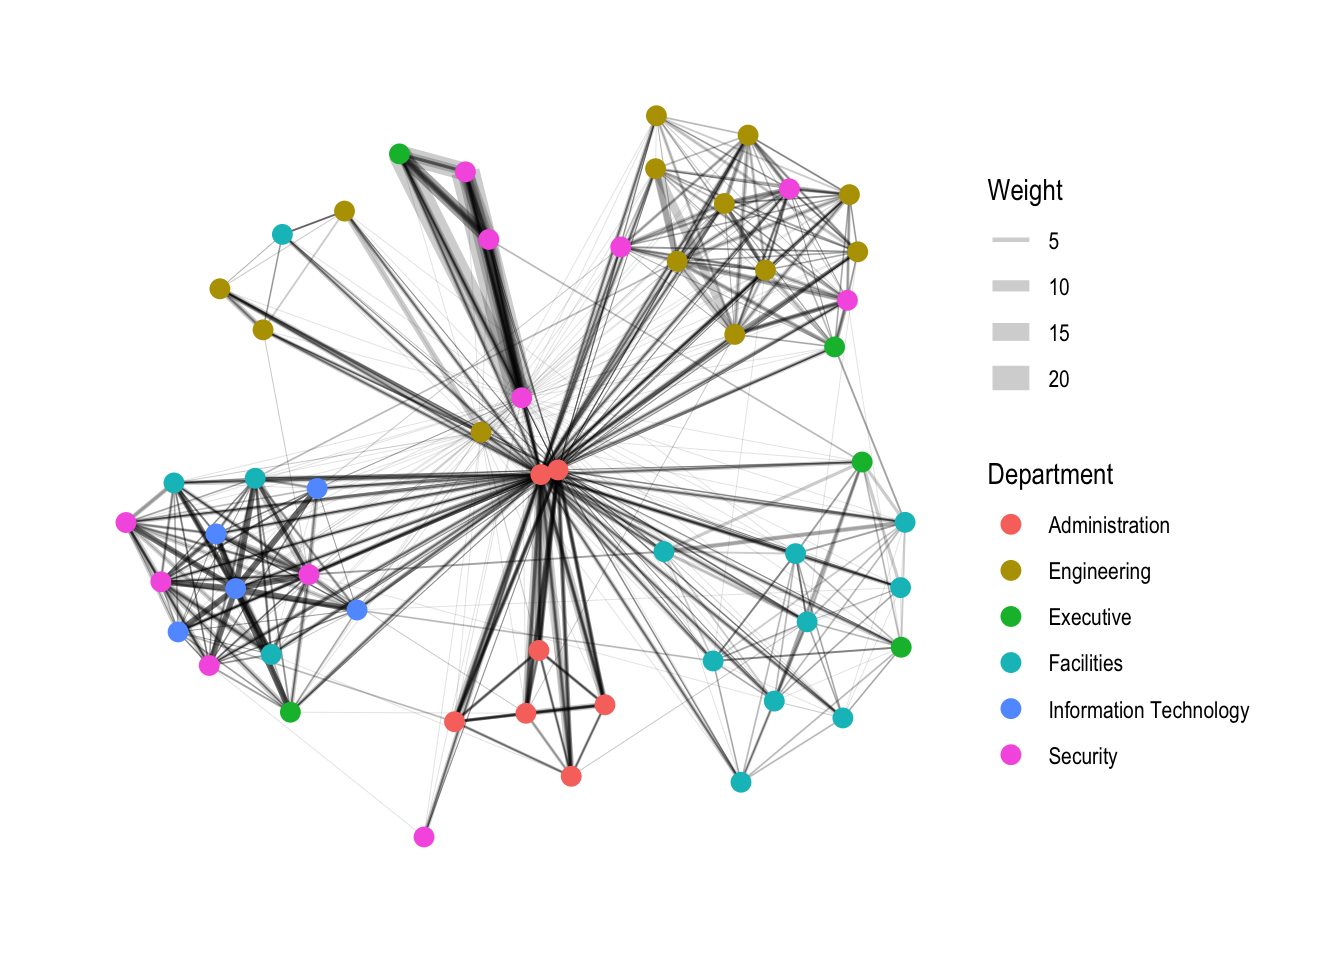
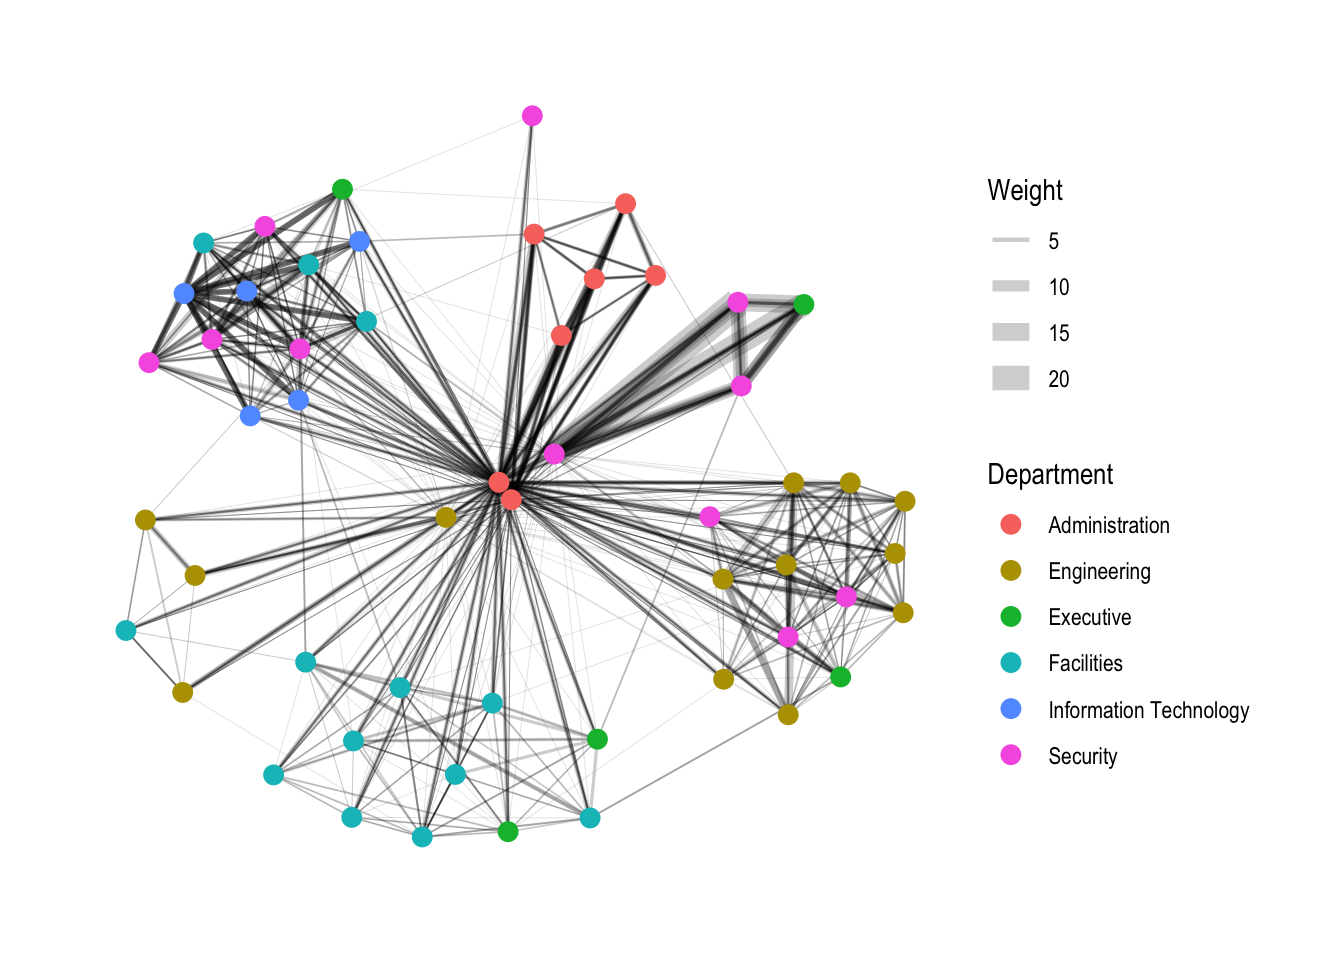
Added In-Class Ex 05

Changed region(s): [[0.0625, 0.0938, 0.6875, 0.875]]

diff --git a/_site/in_class_ex/in_class_ex_05/in_class_ex_05.html b/_site/in_class_ex/in_class_ex_05/in_class_ex_05.html
@@ -9,7 +9,7 @@
 <meta name="author" content="Yang Jun">
 <meta name="dcterms.date" content="2023-05-13">
 
-<title>ISSS608-VAA - In-Class Exercise 5</title>
+<title>ISSS608-VAA - In-Class Exercise 5: Visualising Graph Data</title>
 <style>
 code{white-space: pre-wrap;}
 span.smallcaps{font-variant: small-caps;}
@@ -141,6 +141,10 @@ pre > code.sourceCode > span > a:first-child::before { text-decoration: underlin
     <a class="dropdown-item" href="../../hands_on_ex/hands_on_ex_04/hands_on_ex_04.html" rel="" target="">
  <span class="dropdown-text">Exercise 4: Visualising Statistics &amp; Uncertainty</span></a>
   </li>  
+        <li>
+    <a class="dropdown-item" href="../../hands_on_ex/hands_on_ex_06/hands_on_ex_06.html" rel="" target="">
+ <span class="dropdown-text">Exercise 6: Multivariate Analysis</span></a>
+  </li>  
     </ul>
   </li>
   <li class="nav-item dropdown ">
@@ -159,6 +163,21 @@ pre > code.sourceCode > span > a:first-child::before { text-decoration: underlin
         <li>
     <a class="dropdown-item" href="../../in_class_ex/in_class_ex_04/in_class_ex_04.html" rel="" target="">
  <span class="dropdown-text">Exercise 4: Visualising Normal Distribution</span></a>
+  </li>  
+        <li>
+    <a class="dropdown-item" href="../../in_class_ex/in_class_ex_05/in_class_ex_05.html" rel="" target="">
+ <span class="dropdown-text">Exercise 5: Visualising Graph Data</span></a>
+  </li>  
+    </ul>
+  </li>
+  <li class="nav-item dropdown ">
+    <a class="nav-link dropdown-toggle" href="#" id="nav-menu-take-home-exercises" role="button" data-bs-toggle="dropdown" aria-expanded="false" rel="" target="">
+ <span class="menu-text">Take-Home Exercises</span>
+    </a>
+    <ul class="dropdown-menu" aria-labelledby="nav-menu-take-home-exercises">    
+        <li>
+    <a class="dropdown-item" href="../../take_home_ex/take_home_ex_01/take_home_ex_01.html" rel="" target="">
+ <span class="dropdown-text">Exercise 1: City of Engagement</span></a>
   </li>  
     </ul>
   </li>
@@ -202,7 +221,7 @@ pre > code.sourceCode > span > a:first-child::before { text-decoration: underlin
 
 <header id="title-block-header" class="quarto-title-block default">
 <div class="quarto-title">
-<h1 class="title">In-Class Exercise 5</h1>
+<h1 class="title">In-Class Exercise 5: Visualising Graph Data</h1>
 </div>
 
 
@@ -226,7 +245,7 @@ pre > code.sourceCode > span > a:first-child::before { text-decoration: underlin
     <div>
     <div class="quarto-title-meta-heading">Modified</div>
     <div class="quarto-title-meta-contents">
-      <p class="date-modified">May 14, 2023</p>
+      <p class="date-modified">May 20, 2023</p>
     </div>
   </div>
     
@@ -325,8 +344,8 @@ pre > code.sourceCode > span > a:first-child::before { text-decoration: underlin
 <div class="sourceCode cell-code" id="cb9"><pre class="sourceCode r code-with-copy"><code class="sourceCode r"><span id="cb9-1"><a href="#cb9-1" aria-hidden="true" tabindex="-1"></a><span class="fu">visNetwork</span>(GAStech_nodes,</span>
 <span id="cb9-2"><a href="#cb9-2" aria-hidden="true" tabindex="-1"></a>           GAStech_edges_aggregated)</span></code><button title="Copy to Clipboard" class="code-copy-button"><i class="bi"></i></button></pre></div>
 <div class="cell-output-display">
-<div class="visNetwork html-widget html-fill-item-overflow-hidden html-fill-item" id="htmlwidget-500053f3036271d36b0c" style="width:100%;height:464px;"></div>
-<script type="application/json" data-for="htmlwidget-500053f3036271d36b0c">{"x":{"nodes":{"id":[1,2,3,4,5,6,7,44,45,46,8,9,10,11,12,13,14,15,16,21,26,17,18,19,20,39,40,41,42,43,27,28,29,47,48,49,50,22,51,52,53,54,23,24,25,30,31,32,33,34,35,36,37,38],"label":["Mat.Bramar","Anda.Ribera","Rachel.Pantanal","Linda.Lagos","Ruscella.Mies.Haber","Carla.Forluniau","Cornelia.Lais","Kanon.Herrero","Varja.Lagos","Stenig.Fusil","Marin.Onda","Axel.Calzas","Brand.Tempestad","Elsa.Orilla","Isande.Borrasca","Kare.Orilla","Felix.Balas","Lars.Azada","Lidelse.Dedos","Willem.Vasco-Pais","Bertrand.Ovan","Adra.Nubarron","Birgitta.Frente","Gustav.Cazar","Vira.Frente","Linnea.Bergen","Lucas.Alcazar","Isak.Baza","Nils.Calixto","Sven.Flecha","Emile.Arpa","Varro.Awelon","Dante.Coginian","Edvard.Vann","Hennie.Osvaldo","Isia.Vann","Minke.Mies","Sten.Sanjorge.Jr","Felix.Resumir","Hideki.Cocinaro","Inga.Ferro","Loreto.Bodrogi","Ingrid.Barranco","Ada.Campo-Corrente","Orhan.Strum","Adan.Morlun","Albina.Hafon","Benito.Hawelon","Cecilia.Morluniau","Claudio.Hawelon","Dylan.Scozzese","Henk.Mies","Irene.Nant","Valeria.Morlun"],"Department":["Administration","Administration","Administration","Administration","Administration","Administration","Administration","Security","Security","Security","Engineering","Engineering","Engineering","Engineering","Engineering","Engineering","Engineering","Engineering","Engineering","Executive","Facilities","Engineering","Engineering","Engineering","Engineering","Information Technology","Information Technology","Information Technology","Information Technology","Information Technology","Facilities","Facilities","Facilities","Security","Security","Security","Security","Executive","Security","Security","Security","Security","Executive","Executive","Executive","Facilities","Facilities","Facilities","Facilities","Facilities","Facilities","Facilities","Facilities","Facilities"],"Title":["Assistant to CEO","Assistant to CFO","Assistant to CIO","Assistant to COO","Assistant to Engineering Group Manager","Assistant to IT Group Manager","Assistant to Security Group Manager","Badging Office","Badging Office","Building Control","Drill Site Manager","Drill Technician","Drill Technician","Drill Technician","Drill Technician","Drill Technician","Engineer","Engineer","Engineering Group Manager","Environmental Safety Advisor","Facilities Group Manager","Geologist","Geologist","Hydraulic Technician","Hydraulic Technician","IT Group Manager","IT Helpdesk","IT Technician","IT Technician","IT Technician","Janitor","Janitor","Lead Janitor","Perimeter Control","Perimeter Control","Perimeter Control","Perimeter Control","President/CEO","Security Group Manager","Site Control","Site Control","Site Control","SVP/CFO","SVP/CIO","SVP/COO","Truck Driver","Truck Driver","Truck Driver","Truck Driver","Truck Driver","Truck Driver","Truck Driver","Truck Driver","Truck Driver"]},"edges":{"from":[1,1,1,1,1,1,1,1,1,1,1,1,1,1,1,1,1,1,1,1,1,1,1,1,1,1,1,1,1,1,1,1,1,1,1,1,1,1,1,1,1,1,1,1,1,1,1,1,1,1,1,1,1,2,2,2,2,2,2,2,2,2,3,3,3,3,3,3,3,4,4,4,4,4,4,5,5,5,5,5,5,5,5,5,5,5,5,5,5,5,5,5,5,5,5,5,5,5,5,5,5,5,5,5,5,5,5,5,5,5,5,5,5,5,5,5,5,5,5,5,5,5,5,5,5,5,5,5,6,6,6,6,6,6,6,7,7,7,7,7,7,8,8,8,8,8,8,8,8,8,8,8,8,8,9,9,9,9,9,9,9,9,9,9,9,9,9,10,10,10,10,10,10,10,10,10,10,10,10,11,11,11,11,11,11,11,11,11,11,11,11,11,12,12,12,12,12,12,12,12,12,12,12,12,12,13,13,13,13,13,13,13,13,13,13,13,13,14,14,14,14,14,14,14,14,14,14,14,14,15,15,15,15,15,15,15,15,15,15,15,15,15,16,16,16,16,16,16,16,16,16,16,16,16,17,17,17,17,17,17,17,17,17,17,17,17,17,17,17,17,17,17,17,17,17,17,17,17,17,17,17,17,17,17,17,17,17,17,17,17,17,17,17,17,17,17,17,17,17,17,17,17,17,17,17,17,17,18,18,18,18,18,18,18,18,18,18,18,19,19,19,19,19,19,19,19,19,19,19,19,20,20,20,20,20,20,20,20,20,20,20,20,20,21,21,21,21,21,22,22,22,22,22,23,23,23,23,23,23,23,23,23,23,23,23,23,23,23,23,23,23,23,23,23,23,23,23,23,23,23,23,23,23,23,23,23,23,23,23,23,23,23,23,23,23,23,23,23,23,23,23,23,23,23,23,23,24,24,24,24,24,25,25,25,25,25,26,26,26,26,26,26,26,26,26,26,26,26,27,27,27,27,27,27,27,27,27,27,27,27,27,28,28,28,28,28,28,28,28,28,28,28,28,28,29,29,29,29,29,29,29,29,29,29,29,29,29,29,29,29,30,30,30,30,30,30,30,30,30,30,30,30,31,31,31,31,31,31,31,31,31,31,31,31,32,32,32,32,32,32,32,32,32,32,32,32,32,33,33,33,33,33,33,33,33,33,33,33,33,33,34,34,34,34,34,34,34,34,34,34,34,35,35,35,35,35,35,35,35,35,35,35,35,36,36,36,36,36,36,36,36,36,36,36,36,36,36,36,37,37,37,37,37,37,37,37,37,37,37,37,38,38,38,38,38,38,38,38,38,39,40,40,40,40,40,40,40,40,40,40,40,40,40,40,40,40,40,40,40,40,40,40,40,40,40,40,40,40,40,40,40,40,40,40,40,40,40,40,40,40,40,40,40,40,40,40,40,40,40,40,40,40,40,41,41,41,42,42,42,42,43,43,43,44,44,44,44,44,44,44,44,44,44,44,45,45,45,45,45,45,45,45,45,45,46,46,46,46,46,46,46,46,46,46,47,47,47,47,47,47,47,47,47,47,47,47,47,47,47,47,47,47,47,47,47,47,47,47,47,47,47,47,47,47,47,47,47,47,47,47,47,47,47,47,47,47,47,47,47,47,47,47,47,47,47,47,47,48,48,48,48,48,48,48,48,48,48,48,48,48,48,48,48,48,48,48,48,48,48,48,48,48,48,48,48,48,48,48,48,48,48,48,48,48,48,48,48,48,48,48,48,48,48,48,48,48,48,48,48,48,49,49,49,49,49,49,49,50,50,50,50,50,50,51,51,51,51,51,51,51,51,51,51,51,52,52,52,52,52,52,52,52,52,52,52,52,53,53,53,53,53,53,53,53,53,53,53,53,54,54,54,54,54,54,54,54,54,54,54],"to":[2,3,4,5,6,7,8,9,10,11,12,13,14,15,16,17,18,19,20,21,22,23,24,25,26,27,28,29,30,31,32,33,34,35,36,37,38,39,40,41,42,43,44,45,46,47,48,49,50,51,52,53,54,1,3,4,5,6,7,15,36,38,1,2,4,5,6,7,48,1,2,3,5,6,7,1,2,3,4,6,7,8,9,10,11,12,13,14,15,16,17,18,19,20,21,22,23,24,25,26,27,28,29,30,31,32,33,34,35,36,37,38,39,40,41,42,43,44,45,46,47,48,49,50,51,52,53,54,1,2,3,4,5,7,28,1,2,3,4,5,6,9,10,11,12,13,14,15,16,17,18,19,20,27,8,10,11,12,13,14,15,16,17,18,19,20,45,8,9,11,12,13,14,15,16,17,18,19,20,8,9,10,12,13,14,15,16,17,18,19,20,32,8,9,10,11,13,14,15,16,17,18,19,20,52,8,9,10,11,12,14,15,16,17,18,19,20,8,9,10,11,12,13,15,16,17,18,19,20,2,8,9,10,11,12,13,14,16,17,18,19,20,8,9,10,11,12,13,14,15,17,18,19,20,1,2,3,4,5,6,7,8,9,10,11,12,13,14,15,16,18,19,20,21,22,23,24,25,26,27,28,29,30,31,32,33,34,35,36,37,38,39,40,41,42,43,44,45,46,47,48,49,50,51,52,53,54,8,9,10,11,12,13,14,15,17,19,20,8,9,10,11,12,13,14,15,16,17,18,20,8,9,10,11,12,13,14,15,16,17,18,19,50,22,23,24,25,53,21,23,24,25,36,1,2,3,4,5,6,7,8,9,10,11,12,13,14,15,16,17,18,19,20,21,22,24,25,26,27,28,29,30,31,32,33,34,35,36,37,38,39,40,41,42,43,44,45,46,47,48,49,50,51,52,53,54,5,21,22,23,25,21,22,23,24,46,27,28,29,30,31,32,33,34,35,36,37,38,8,28,29,30,31,32,33,34,35,36,37,38,40,6,26,27,29,30,31,32,33,34,35,36,37,38,1,26,27,28,30,31,32,33,34,35,36,37,38,40,51,52,26,27,28,29,31,32,33,34,35,36,37,38,3,27,28,29,30,32,33,34,35,36,37,38,11,26,27,28,29,30,31,33,34,35,36,37,38,23,26,27,28,29,30,31,32,34,35,36,37,38,27,28,29,30,31,32,33,35,36,37,38,26,27,28,29,30,31,32,33,34,36,37,38,2,22,26,27,28,29,30,31,32,33,34,35,37,38,53,26,27,28,29,30,31,32,33,34,35,36,38,27,28,29,30,31,32,34,35,36,34,1,2,3,4,5,6,7,8,9,10,11,12,13,14,15,16,17,18,19,20,21,22,23,24,25,26,27,28,29,30,31,32,33,34,35,36,37,38,39,41,42,43,44,45,46,47,48,49,50,51,52,53,54,40,42,43,40,41,43,44,40,41,42,42,45,46,47,48,49,50,51,52,53,54,44,46,47,48,49,50,51,52,53,54,44,45,47,48,49,50,51,52,53,54,1,2,3,4,5,6,7,8,9,10,11,12,13,14,15,16,17,18,19,20,21,22,23,24,25,26,27,28,29,30,31,32,33,34,35,36,37,38,39,40,41,42,43,44,45,46,48,49,50,51,52,53,54,1,2,3,4,5,6,7,8,9,10,11,12,13,14,15,16,17,18,19,20,21,22,23,24,25,26,27,28,29,30,31,32,33,34,35,36,37,38,39,40,41,42,43,44,45,46,47,49,50,51,52,53,54,3,45,46,47,48,52,54,5,20,48,49,53,54,29,44,45,46,47,48,49,50,52,53,54,7,12,29,44,45,46,47,48,49,50,51,53,5,21,36,44,45,47,48,49,50,51,52,54,5,44,45,46,47,48,49,50,51,52,53],"weight":[21,21,21,21,21,21,15,15,15,15,15,15,15,15,15,15,15,15,15,15,15,15,15,15,15,15,15,16,15,15,15,15,15,15,15,15,15,15,15,15,15,15,15,15,15,15,15,15,15,15,15,15,15,6,6,6,6,6,9,2,2,2,8,8,8,8,8,8,2,12,12,12,12,12,12,20,20,20,20,20,20,10,10,10,10,10,10,10,10,10,10,10,10,10,10,10,10,11,10,10,10,10,10,10,10,10,10,10,10,10,10,10,10,10,10,10,10,10,10,10,10,11,11,11,10,10,11,11,11,11,11,11,11,11,3,12,15,12,12,12,12,3,4,3,3,4,4,3,3,4,3,4,3,3,4,4,9,4,7,7,11,5,4,5,6,8,3,8,8,7,9,9,6,9,10,10,7,5,7,11,10,11,6,11,7,11,9,10,7,10,8,3,9,10,8,8,11,6,7,5,3,6,5,6,2,9,5,10,7,7,4,3,4,7,2,3,3,6,5,7,4,6,6,7,5,7,6,3,4,3,6,13,8,8,5,6,6,11,9,6,2,7,6,8,7,5,5,7,6,7,7,5,4,6,2,2,2,2,2,2,2,6,4,7,7,6,6,6,6,5,5,4,4,2,2,2,2,2,2,2,2,2,2,2,2,2,2,2,2,2,2,2,2,2,2,2,2,2,2,2,2,2,2,2,2,2,2,3,3,4,5,3,3,2,5,2,3,2,4,8,5,9,6,5,4,10,7,4,4,5,5,10,5,7,4,5,4,4,4,3,2,4,3,4,2,4,7,2,7,5,10,4,2,4,4,4,4,4,4,4,4,4,4,4,4,6,4,4,4,4,4,4,4,6,10,17,9,4,4,4,4,4,4,4,5,4,4,4,4,4,4,4,4,4,4,4,4,4,4,4,4,4,4,4,4,4,2,5,9,7,3,8,2,3,4,2,26,25,25,25,25,25,24,25,25,26,25,26,3,4,3,6,4,3,3,6,5,3,4,5,3,3,2,3,6,5,8,6,6,7,4,6,6,6,2,2,6,5,7,5,6,5,7,6,6,5,5,3,2,3,3,5,7,9,12,9,9,6,13,12,9,11,2,5,4,6,6,9,7,6,12,7,7,8,4,2,8,6,9,7,10,7,9,6,10,5,8,2,4,2,3,5,7,8,4,7,5,7,6,4,5,6,4,7,8,5,9,6,6,10,6,3,11,7,9,11,15,7,11,11,9,13,13,2,2,3,12,11,12,16,15,19,12,11,14,11,13,3,3,4,5,6,7,7,6,9,10,7,5,3,2,5,5,2,2,2,4,4,3,2,2,2,2,2,2,2,2,2,2,2,2,2,2,2,2,2,2,2,2,2,2,2,2,2,2,2,4,2,3,2,2,2,2,2,2,2,2,2,2,40,22,30,2,2,2,2,2,2,2,2,2,2,2,28,19,24,25,19,28,2,15,16,24,3,4,2,5,6,2,5,5,2,6,3,6,4,2,6,5,5,4,7,5,6,6,3,4,9,5,6,8,7,4,6,2,2,2,2,2,2,2,2,2,2,2,2,2,2,2,2,2,2,2,2,2,2,2,2,2,2,2,2,2,2,2,2,2,2,2,3,2,2,2,2,2,2,2,5,4,3,7,5,6,6,5,5,5,2,2,4,2,4,2,2,2,2,2,2,2,2,3,2,2,2,2,2,2,2,2,2,2,2,2,2,2,2,2,2,2,2,2,2,2,2,2,2,2,2,2,2,4,4,5,3,8,6,5,5,5,6,2,3,2,3,3,4,2,2,4,2,2,5,2,3,3,3,3,4,4,2,3,3,3,3,2,2,4,2,4,4,3,4,5,3,2,4,3,3,4,3,3,2,5,4,8,2,2,5,2,3,4,3,2,5,4,4,2,3,4]},"nodesToDataframe":true,"edgesToDataframe":true,"options":{"width":"100%","height":"100%","nodes":{"shape":"dot"},"manipulation":{"enabled":false}},"groups":null,"width":null,"height":null,"idselection":{"enabled":false},"byselection":{"enabled":false},"main":null,"submain":null,"footer":null,"background":"rgba(0, 0, 0, 0)"},"evals":[],"jsHooks":[]}</script>
+<div class="visNetwork html-widget html-fill-item-overflow-hidden html-fill-item" id="htmlwidget-f76dc66dd4dc958263a6" style="width:100%;height:464px;"></div>
+<script type="application/json" data-for="htmlwidget-f76dc66dd4dc958263a6">{"x":{"nodes":{"id":[1,2,3,4,5,6,7,44,45,46,8,9,10,11,12,13,14,15,16,21,26,17,18,19,20,39,40,41,42,43,27,28,29,47,48,49,50,22,51,52,53,54,23,24,25,30,31,32,33,34,35,36,37,38],"label":["Mat.Bramar","Anda.Ribera","Rachel.Pantanal","Linda.Lagos","Ruscella.Mies.Haber","Carla.Forluniau","Cornelia.Lais","Kanon.Herrero","Varja.Lagos","Stenig.Fusil","Marin.Onda","Axel.Calzas","Brand.Tempestad","Elsa.Orilla","Isande.Borrasca","Kare.Orilla","Felix.Balas","Lars.Azada","Lidelse.Dedos","Willem.Vasco-Pais","Bertrand.Ovan","Adra.Nubarron","Birgitta.Frente","Gustav.Cazar","Vira.Frente","Linnea.Bergen","Lucas.Alcazar","Isak.Baza","Nils.Calixto","Sven.Flecha","Emile.Arpa","Varro.Awelon","Dante.Coginian","Edvard.Vann","Hennie.Osvaldo","Isia.Vann","Minke.Mies","Sten.Sanjorge.Jr","Felix.Resumir","Hideki.Cocinaro","Inga.Ferro","Loreto.Bodrogi","Ingrid.Barranco","Ada.Campo-Corrente","Orhan.Strum","Adan.Morlun","Albina.Hafon","Benito.Hawelon","Cecilia.Morluniau","Claudio.Hawelon","Dylan.Scozzese","Henk.Mies","Irene.Nant","Valeria.Morlun"],"Department":["Administration","Administration","Administration","Administration","Administration","Administration","Administration","Security","Security","Security","Engineering","Engineering","Engineering","Engineering","Engineering","Engineering","Engineering","Engineering","Engineering","Executive","Facilities","Engineering","Engineering","Engineering","Engineering","Information Technology","Information Technology","Information Technology","Information Technology","Information Technology","Facilities","Facilities","Facilities","Security","Security","Security","Security","Executive","Security","Security","Security","Security","Executive","Executive","Executive","Facilities","Facilities","Facilities","Facilities","Facilities","Facilities","Facilities","Facilities","Facilities"],"Title":["Assistant to CEO","Assistant to CFO","Assistant to CIO","Assistant to COO","Assistant to Engineering Group Manager","Assistant to IT Group Manager","Assistant to Security Group Manager","Badging Office","Badging Office","Building Control","Drill Site Manager","Drill Technician","Drill Technician","Drill Technician","Drill Technician","Drill Technician","Engineer","Engineer","Engineering Group Manager","Environmental Safety Advisor","Facilities Group Manager","Geologist","Geologist","Hydraulic Technician","Hydraulic Technician","IT Group Manager","IT Helpdesk","IT Technician","IT Technician","IT Technician","Janitor","Janitor","Lead Janitor","Perimeter Control","Perimeter Control","Perimeter Control","Perimeter Control","President/CEO","Security Group Manager","Site Control","Site Control","Site Control","SVP/CFO","SVP/CIO","SVP/COO","Truck Driver","Truck Driver","Truck Driver","Truck Driver","Truck Driver","Truck Driver","Truck Driver","Truck Driver","Truck Driver"]},"edges":{"from":[1,1,1,1,1,1,1,1,1,1,1,1,1,1,1,1,1,1,1,1,1,1,1,1,1,1,1,1,1,1,1,1,1,1,1,1,1,1,1,1,1,1,1,1,1,1,1,1,1,1,1,1,1,2,2,2,2,2,2,2,2,2,3,3,3,3,3,3,3,4,4,4,4,4,4,5,5,5,5,5,5,5,5,5,5,5,5,5,5,5,5,5,5,5,5,5,5,5,5,5,5,5,5,5,5,5,5,5,5,5,5,5,5,5,5,5,5,5,5,5,5,5,5,5,5,5,5,5,6,6,6,6,6,6,6,7,7,7,7,7,7,8,8,8,8,8,8,8,8,8,8,8,8,8,9,9,9,9,9,9,9,9,9,9,9,9,9,10,10,10,10,10,10,10,10,10,10,10,10,11,11,11,11,11,11,11,11,11,11,11,11,11,12,12,12,12,12,12,12,12,12,12,12,12,12,13,13,13,13,13,13,13,13,13,13,13,13,14,14,14,14,14,14,14,14,14,14,14,14,15,15,15,15,15,15,15,15,15,15,15,15,15,16,16,16,16,16,16,16,16,16,16,16,16,17,17,17,17,17,17,17,17,17,17,17,17,17,17,17,17,17,17,17,17,17,17,17,17,17,17,17,17,17,17,17,17,17,17,17,17,17,17,17,17,17,17,17,17,17,17,17,17,17,17,17,17,17,18,18,18,18,18,18,18,18,18,18,18,19,19,19,19,19,19,19,19,19,19,19,19,20,20,20,20,20,20,20,20,20,20,20,20,20,21,21,21,21,21,22,22,22,22,22,23,23,23,23,23,23,23,23,23,23,23,23,23,23,23,23,23,23,23,23,23,23,23,23,23,23,23,23,23,23,23,23,23,23,23,23,23,23,23,23,23,23,23,23,23,23,23,23,23,23,23,23,23,24,24,24,24,24,25,25,25,25,25,26,26,26,26,26,26,26,26,26,26,26,26,27,27,27,27,27,27,27,27,27,27,27,27,27,28,28,28,28,28,28,28,28,28,28,28,28,28,29,29,29,29,29,29,29,29,29,29,29,29,29,29,29,29,30,30,30,30,30,30,30,30,30,30,30,30,31,31,31,31,31,31,31,31,31,31,31,31,32,32,32,32,32,32,32,32,32,32,32,32,32,33,33,33,33,33,33,33,33,33,33,33,33,33,34,34,34,34,34,34,34,34,34,34,34,35,35,35,35,35,35,35,35,35,35,35,35,36,36,36,36,36,36,36,36,36,36,36,36,36,36,36,37,37,37,37,37,37,37,37,37,37,37,37,38,38,38,38,38,38,38,38,38,39,40,40,40,40,40,40,40,40,40,40,40,40,40,40,40,40,40,40,40,40,40,40,40,40,40,40,40,40,40,40,40,40,40,40,40,40,40,40,40,40,40,40,40,40,40,40,40,40,40,40,40,40,40,41,41,41,42,42,42,42,43,43,43,44,44,44,44,44,44,44,44,44,44,44,45,45,45,45,45,45,45,45,45,45,46,46,46,46,46,46,46,46,46,46,47,47,47,47,47,47,47,47,47,47,47,47,47,47,47,47,47,47,47,47,47,47,47,47,47,47,47,47,47,47,47,47,47,47,47,47,47,47,47,47,47,47,47,47,47,47,47,47,47,47,47,47,47,48,48,48,48,48,48,48,48,48,48,48,48,48,48,48,48,48,48,48,48,48,48,48,48,48,48,48,48,48,48,48,48,48,48,48,48,48,48,48,48,48,48,48,48,48,48,48,48,48,48,48,48,48,49,49,49,49,49,49,49,50,50,50,50,50,50,51,51,51,51,51,51,51,51,51,51,51,52,52,52,52,52,52,52,52,52,52,52,52,53,53,53,53,53,53,53,53,53,53,53,53,54,54,54,54,54,54,54,54,54,54,54],"to":[2,3,4,5,6,7,8,9,10,11,12,13,14,15,16,17,18,19,20,21,22,23,24,25,26,27,28,29,30,31,32,33,34,35,36,37,38,39,40,41,42,43,44,45,46,47,48,49,50,51,52,53,54,1,3,4,5,6,7,15,36,38,1,2,4,5,6,7,48,1,2,3,5,6,7,1,2,3,4,6,7,8,9,10,11,12,13,14,15,16,17,18,19,20,21,22,23,24,25,26,27,28,29,30,31,32,33,34,35,36,37,38,39,40,41,42,43,44,45,46,47,48,49,50,51,52,53,54,1,2,3,4,5,7,28,1,2,3,4,5,6,9,10,11,12,13,14,15,16,17,18,19,20,27,8,10,11,12,13,14,15,16,17,18,19,20,45,8,9,11,12,13,14,15,16,17,18,19,20,8,9,10,12,13,14,15,16,17,18,19,20,32,8,9,10,11,13,14,15,16,17,18,19,20,52,8,9,10,11,12,14,15,16,17,18,19,20,8,9,10,11,12,13,15,16,17,18,19,20,2,8,9,10,11,12,13,14,16,17,18,19,20,8,9,10,11,12,13,14,15,17,18,19,20,1,2,3,4,5,6,7,8,9,10,11,12,13,14,15,16,18,19,20,21,22,23,24,25,26,27,28,29,30,31,32,33,34,35,36,37,38,39,40,41,42,43,44,45,46,47,48,49,50,51,52,53,54,8,9,10,11,12,13,14,15,17,19,20,8,9,10,11,12,13,14,15,16,17,18,20,8,9,10,11,12,13,14,15,16,17,18,19,50,22,23,24,25,53,21,23,24,25,36,1,2,3,4,5,6,7,8,9,10,11,12,13,14,15,16,17,18,19,20,21,22,24,25,26,27,28,29,30,31,32,33,34,35,36,37,38,39,40,41,42,43,44,45,46,47,48,49,50,51,52,53,54,5,21,22,23,25,21,22,23,24,46,27,28,29,30,31,32,33,34,35,36,37,38,8,28,29,30,31,32,33,34,35,36,37,38,40,6,26,27,29,30,31,32,33,34,35,36,37,38,1,26,27,28,30,31,32,33,34,35,36,37,38,40,51,52,26,27,28,29,31,32,33,34,35,36,37,38,3,27,28,29,30,32,33,34,35,36,37,38,11,26,27,28,29,30,31,33,34,35,36,37,38,23,26,27,28,29,30,31,32,34,35,36,37,38,27,28,29,30,31,32,33,35,36,37,38,26,27,28,29,30,31,32,33,34,36,37,38,2,22,26,27,28,29,30,31,32,33,34,35,37,38,53,26,27,28,29,30,31,32,33,34,35,36,38,27,28,29,30,31,32,34,35,36,34,1,2,3,4,5,6,7,8,9,10,11,12,13,14,15,16,17,18,19,20,21,22,23,24,25,26,27,28,29,30,31,32,33,34,35,36,37,38,39,41,42,43,44,45,46,47,48,49,50,51,52,53,54,40,42,43,40,41,43,44,40,41,42,42,45,46,47,48,49,50,51,52,53,54,44,46,47,48,49,50,51,52,53,54,44,45,47,48,49,50,51,52,53,54,1,2,3,4,5,6,7,8,9,10,11,12,13,14,15,16,17,18,19,20,21,22,23,24,25,26,27,28,29,30,31,32,33,34,35,36,37,38,39,40,41,42,43,44,45,46,48,49,50,51,52,53,54,1,2,3,4,5,6,7,8,9,10,11,12,13,14,15,16,17,18,19,20,21,22,23,24,25,26,27,28,29,30,31,32,33,34,35,36,37,38,39,40,41,42,43,44,45,46,47,49,50,51,52,53,54,3,45,46,47,48,52,54,5,20,48,49,53,54,29,44,45,46,47,48,49,50,52,53,54,7,12,29,44,45,46,47,48,49,50,51,53,5,21,36,44,45,47,48,49,50,51,52,54,5,44,45,46,47,48,49,50,51,52,53],"weight":[21,21,21,21,21,21,15,15,15,15,15,15,15,15,15,15,15,15,15,15,15,15,15,15,15,15,15,16,15,15,15,15,15,15,15,15,15,15,15,15,15,15,15,15,15,15,15,15,15,15,15,15,15,6,6,6,6,6,9,2,2,2,8,8,8,8,8,8,2,12,12,12,12,12,12,20,20,20,20,20,20,10,10,10,10,10,10,10,10,10,10,10,10,10,10,10,10,11,10,10,10,10,10,10,10,10,10,10,10,10,10,10,10,10,10,10,10,10,10,10,10,11,11,11,10,10,11,11,11,11,11,11,11,11,3,12,15,12,12,12,12,3,4,3,3,4,4,3,3,4,3,4,3,3,4,4,9,4,7,7,11,5,4,5,6,8,3,8,8,7,9,9,6,9,10,10,7,5,7,11,10,11,6,11,7,11,9,10,7,10,8,3,9,10,8,8,11,6,7,5,3,6,5,6,2,9,5,10,7,7,4,3,4,7,2,3,3,6,5,7,4,6,6,7,5,7,6,3,4,3,6,13,8,8,5,6,6,11,9,6,2,7,6,8,7,5,5,7,6,7,7,5,4,6,2,2,2,2,2,2,2,6,4,7,7,6,6,6,6,5,5,4,4,2,2,2,2,2,2,2,2,2,2,2,2,2,2,2,2,2,2,2,2,2,2,2,2,2,2,2,2,2,2,2,2,2,2,3,3,4,5,3,3,2,5,2,3,2,4,8,5,9,6,5,4,10,7,4,4,5,5,10,5,7,4,5,4,4,4,3,2,4,3,4,2,4,7,2,7,5,10,4,2,4,4,4,4,4,4,4,4,4,4,4,4,6,4,4,4,4,4,4,4,6,10,17,9,4,4,4,4,4,4,4,5,4,4,4,4,4,4,4,4,4,4,4,4,4,4,4,4,4,4,4,4,4,2,5,9,7,3,8,2,3,4,2,26,25,25,25,25,25,24,25,25,26,25,26,3,4,3,6,4,3,3,6,5,3,4,5,3,3,2,3,6,5,8,6,6,7,4,6,6,6,2,2,6,5,7,5,6,5,7,6,6,5,5,3,2,3,3,5,7,9,12,9,9,6,13,12,9,11,2,5,4,6,6,9,7,6,12,7,7,8,4,2,8,6,9,7,10,7,9,6,10,5,8,2,4,2,3,5,7,8,4,7,5,7,6,4,5,6,4,7,8,5,9,6,6,10,6,3,11,7,9,11,15,7,11,11,9,13,13,2,2,3,12,11,12,16,15,19,12,11,14,11,13,3,3,4,5,6,7,7,6,9,10,7,5,3,2,5,5,2,2,2,4,4,3,2,2,2,2,2,2,2,2,2,2,2,2,2,2,2,2,2,2,2,2,2,2,2,2,2,2,2,4,2,3,2,2,2,2,2,2,2,2,2,2,40,22,30,2,2,2,2,2,2,2,2,2,2,2,28,19,24,25,19,28,2,15,16,24,3,4,2,5,6,2,5,5,2,6,3,6,4,2,6,5,5,4,7,5,6,6,3,4,9,5,6,8,7,4,6,2,2,2,2,2,2,2,2,2,2,2,2,2,2,2,2,2,2,2,2,2,2,2,2,2,2,2,2,2,2,2,2,2,2,2,3,2,2,2,2,2,2,2,5,4,3,7,5,6,6,5,5,5,2,2,4,2,4,2,2,2,2,2,2,2,2,3,2,2,2,2,2,2,2,2,2,2,2,2,2,2,2,2,2,2,2,2,2,2,2,2,2,2,2,2,2,4,4,5,3,8,6,5,5,5,6,2,3,2,3,3,4,2,2,4,2,2,5,2,3,3,3,3,4,4,2,3,3,3,3,2,2,4,2,4,4,3,4,5,3,2,4,3,3,4,3,3,2,5,4,8,2,2,5,2,3,4,3,2,5,4,4,2,3,4]},"nodesToDataframe":true,"edgesToDataframe":true,"options":{"width":"100%","height":"100%","nodes":{"shape":"dot"},"manipulation":{"enabled":false}},"groups":null,"width":null,"height":null,"idselection":{"enabled":false},"byselection":{"enabled":false},"main":null,"submain":null,"footer":null,"background":"rgba(0, 0, 0, 0)"},"evals":[],"jsHooks":[]}</script>
 </div>
 </div>
 
